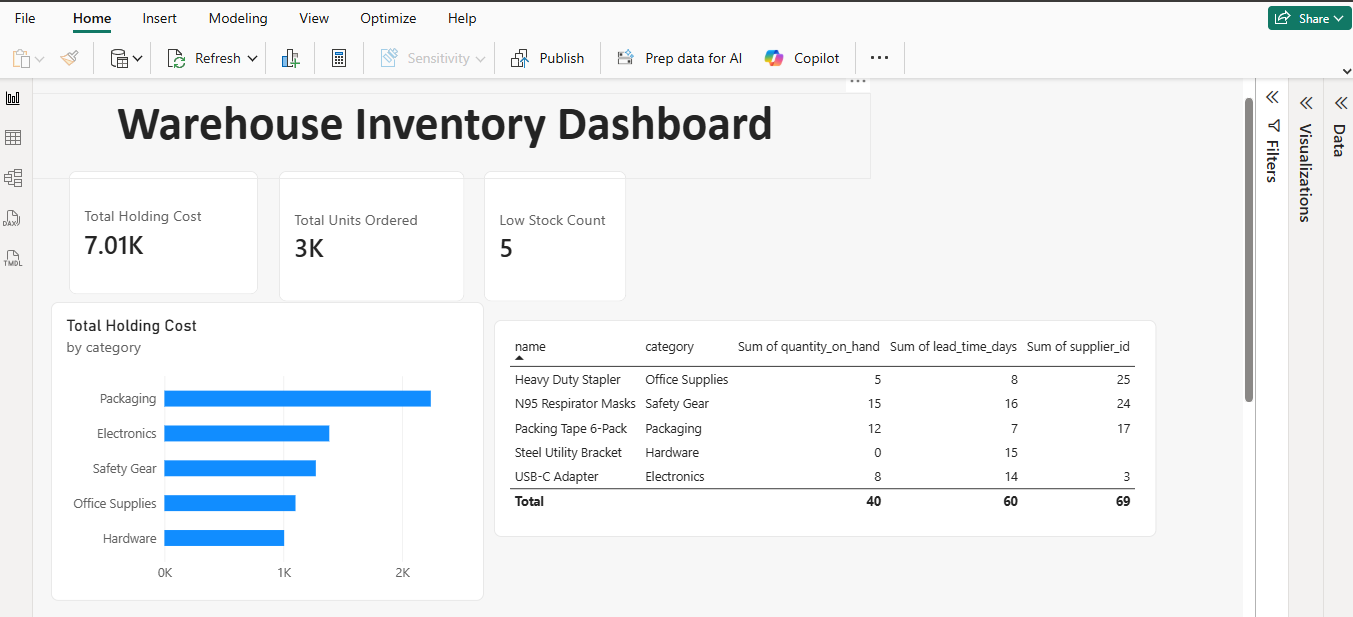
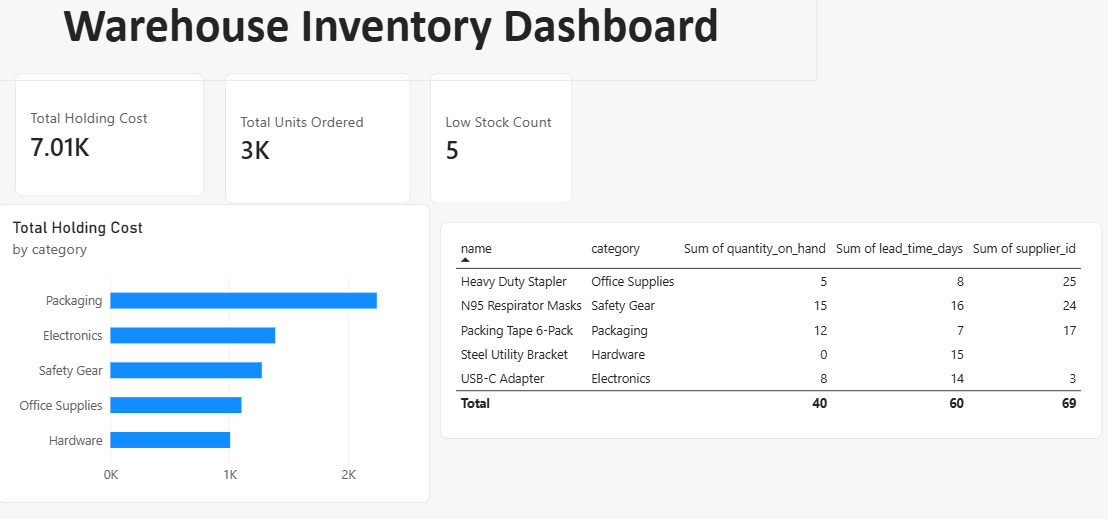
Replace screenshots with cropped versions and update README

diff --git a/README.md b/README.md
@@ -72,7 +72,9 @@ warehouse_inventory_analysis/
 
 The summary query exports one row per product, joining products, inventory and orders. In Excel Online I formatted it as a Table and added `holding_cost = quantity_on_hand * storage_cost_per_unit`. A PivotTable summarises holding cost by category, and conditional formatting highlights any stock below 20 units.
 
-![Excel PivotTable](screenshots/inventory_summary_screenshot.png)
+![Summary table with holding cost](screenshots/excel_summary_table.png)
+
+![Excel PivotTable: holding cost by category](screenshots/excel_pivot_table.png)
 
 ![Low-stock highlighting](screenshots/excel_low_stock_highlight.png)
 
